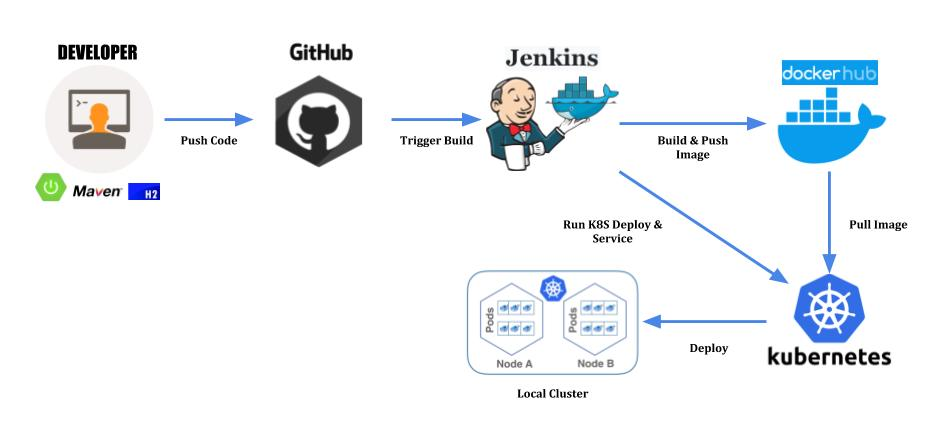
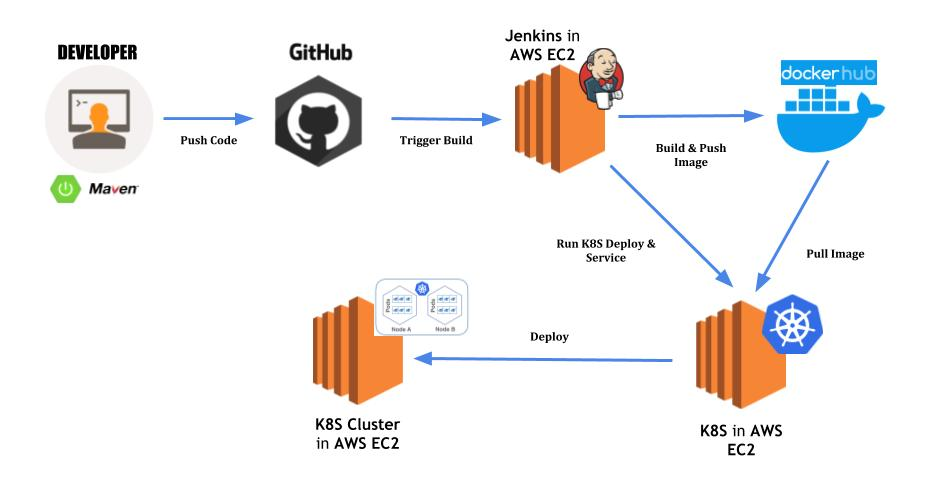
Reamde project devops

diff --git a/README.md b/README.md
@@ -1,23 +1,14 @@
-# Trip-Service
+# DevOps Project
 
 The goal of this application is to perform the next task.
 
 - Implement the specified REST Endpoint
 - Protect the API with BasicAuth
 - Use Docker to run your application
-- Use one of the following languages&#58; Go, Java, Python, C++
-- Automate the infrastructure rollout
-- Use an external service to determine the city name for depature and destination
-- Upload your solution to a private GitHub repository
-- Provide a link to the secured hosted instance of your solution
-- Provide the following files together with your code&#58;
-      * Dockerfile
-      * Build-Script
-      * Deployment-Script
-      * Kubernetes deployment YAML (if Kubernetes is used)
-      * Infrastructure automation scripts
-      * README.md with documentation how to deploy the infrastructure and the application
-
+- Use Maven to build Build, Clean and Package the project
+- DevOps Automation
+- Deploy in AWS EC2 Intances
+- 
 ## Devops Workflow
 
 ![alt text](images/Devops-workflow.jpg?raw=true "Devops Workflow")
@@ -25,21 +16,22 @@ The goal of this application is to perform the next task.
 ## Technologies
 
 * [SpringBoot] - Spring Boot makes it easy to create stand-alone, production-grade Spring based Applications that you can "just run".!
-* [H2] - H2 is a relational database management system written in Java. It can be embedded in Java applications or run in client-server mode
+ Java applications or run in client-server mode
 * [Maven] - Maven is a build automation tool used primarily for Java projects.
 * [Junit] - JUnit is a unit testing framework for the Java programming language
 * [Swagger] - Swagger is an open-source software framework backed by a large ecosystem of tools that helps developers design, build, document, and consume RESTful Web services
 * [Git] - Git is a distributed version-control system for tracking changes in source code during software development.
 * [Docker] - Docker is a set of coupled software-as-a-service and platform-as-a-service products that use operating-system-level virtualization to develop and deliver software in packages called containers
 * [Jenkins] - Jenkins is an open source automation server written in Java. Jenkins helps to automate the non-human part of the software development process, with continuous integration and facilitating technical aspects of continuous delivery.
-* [Kubernetes] - Kubernetes (K8s) is an open-source system for automating deployment, scaling, and management of containerized applications 
+* [Kubernetes] - Kubernetes (K8s) is an open-source system for automating deployment, scaling, and management of containerized applications.
+* [AWS EC2] - Amazon Elastic Compute Cloud forms a central part of Amazon.com's cloud-computing platform, Amazon Web Services, by allowing users to rent virtual computers on which to run their own computer applications.
 
 ## Endpoint to test
 
 After running you can test the endpoints.
 
 ```sh
-$ http://localhost:8180/swagger-ui.html#/
+$ http://a7d47d29e4b5842ef9c3c9cfceb4f8ce-ac84536ac451c209.elb.us-east-2.amazonaws.com:8180/swagger-ui.html#/
 ```
 
 __Note:__ 
@@ -89,7 +81,7 @@ __note__: verify the context of your K8S.
 ```sh
 kubectl config get-contexts
 ```
-Expected output: * docker-for-desktop or docker-desktop according to your docker installation.
+Expected output: * dev.k8s.kelwinpa.co
 
 Finally run the next command to check if everything went well.
 ```sh
@@ -100,7 +92,7 @@ Expected output:
 | NAME              | TYPE       | CLUSTER-IP   |EXTERNAL-IP| PORT(S) | AGE |
 | ------            | ------     | ------       | ------    | ------  | --- |
 |service/kubernetes | ClusterIP  | 10.96.0.1    | <none>    | 443/TCP |3m13s|
-|service/trip-service|LoadBalancer|10.105.152.174| localhost |8180:30943/TCP|47s|
+|service/trip-service|LoadBalancer|10.105.152.174| a7d47d29e4b5842ef9c3c9cfceb4f8ce-ac84536ac451c209.elb.us-east-2.amazonaws.com |8180:30943/TCP|47s|
 
 | NAME                              | READY | UP-TO-DATE| AVAILABLE | AGE |
 | --------------------------------- | ----- | --------- | --------- | --- |
@@ -114,25 +106,23 @@ Expected output:
 
 After it, the application will be ready to test it.
 
-## Problem Founds
+## Set the Environments
 
-The main problem found was related to the deployment, since my AWS account cannot create more than one EC2 instance in the same availability zone.
+You need to open an account in AWS and start 2 EC2 instance to complete this projects.
 
-This was a huge problem because I could not deploy the nodes and the master of Kubernetes to make CD (Continuous Deployment)
+### Set AWS EC2 and Jenkins
+To set this environment please follow these videos.
+- https://www.youtube.com/watch?v=M32O4Yv0ANc
+- https://www.youtube.com/watch?v=wgfsVmHnAiM
 
-I already sent an email to AWS support team, but this takes between 3 and 5 business days.
-
-So the deployment with Kubernetes was testing locally.
-
-That is the main reason why I did not provide any secure host to test.
-
-Look at the image in /image folder to see the DevOps flow.
+### Set AWS EC2 and K8S Server and Cluster
+To set this environment please follow this video.
+- https://www.youtube.com/watch?v=ndNKI5GBdd0
 
 ***
 This file was generated by https://dillinger.io/
 
    [SpringBoot]: <https://spring.io/projects/spring-boot>
-   [H2]: <https://www.h2database.com/>
    [Maven]: <https://maven.apache.org/>
    [Junit]: <https://junit.org/junit5/>
    [Swagger]: <https://swagger.io/>
@@ -140,4 +130,5 @@ This file was generated by https://dillinger.io/
    [Docker]: <https://www.docker.com/>
    [Jenkins]: <https://jenkins.io/>
    [Kubernetes]: <https://kubernetes.io/>
+   [AWS EC2]: <https://aws.amazon.com/ec2/> 
 
